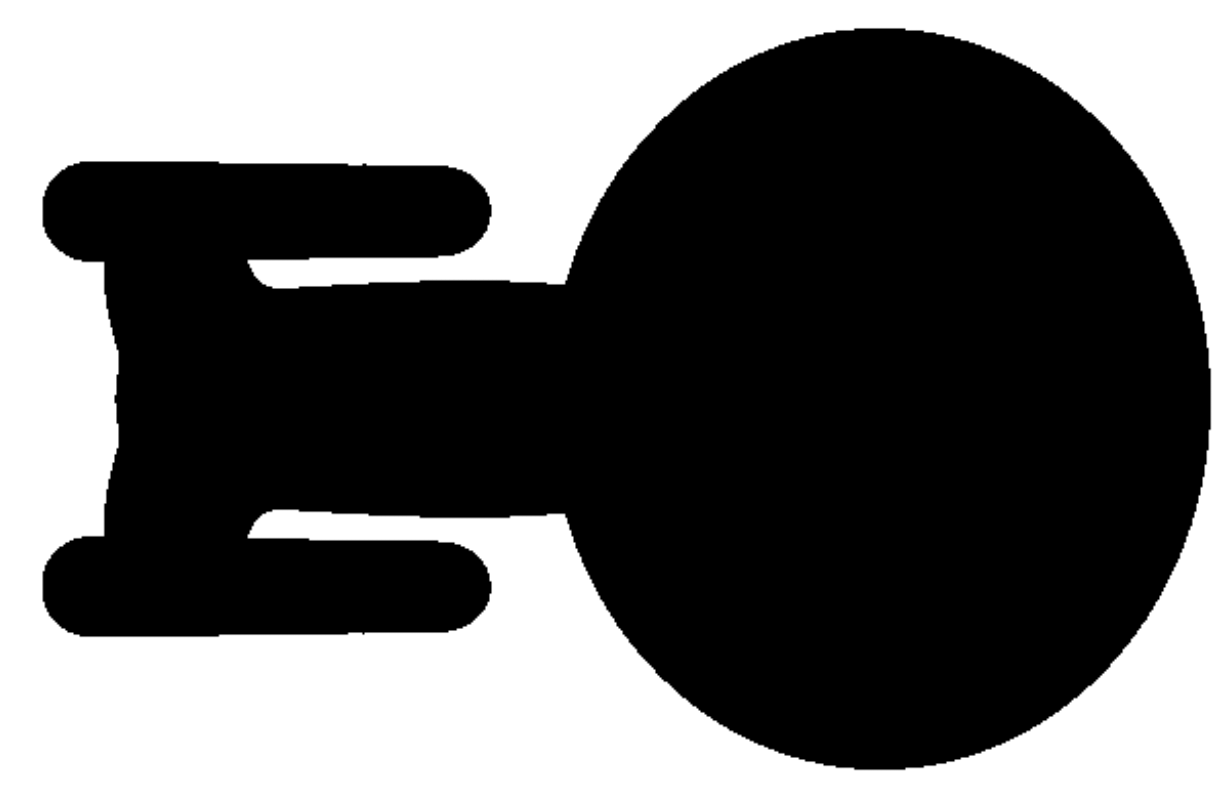
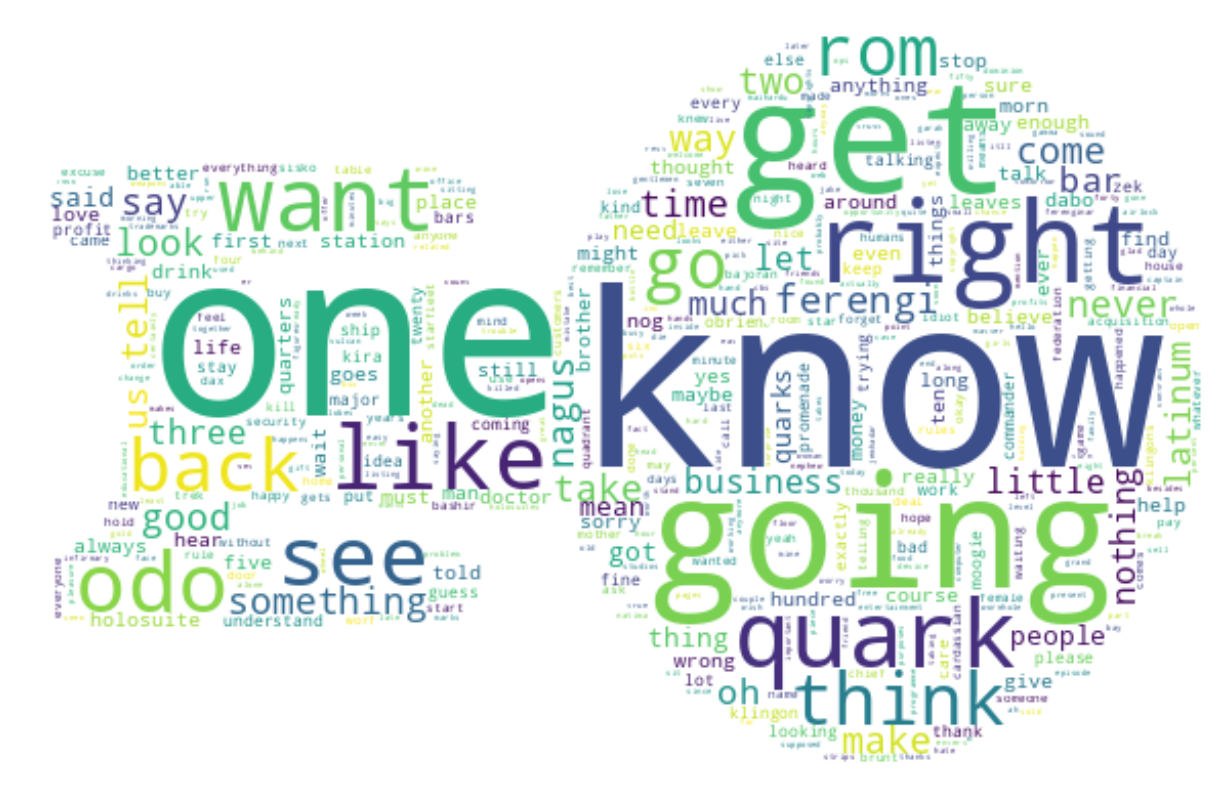
working mask, tested on Quark and Rom

diff --git a/processWords.py b/processWords.py
@@ -35,7 +35,7 @@ def get_all_stopwords(character_names=True):
 stopwords_mine = get_all_stopwords()
 
 def add_nltk_stopwords_to_set(stopwords_mine):
-    try: ##<LUCIFER Added try/except because first-time run gave me a need to execute nltk.download('stopwords')
+  try: ##<LUCIFER Added try/except because first-time run gave me a need to execute nltk.download('stopwords')
     stopwords_nltk = set(stopwords.words('english'))
   except Exception:
     import nltk
@@ -106,8 +106,8 @@ def makeImage(w_dict, fname):
     plt.imshow(wc, interpolation='bilinear')
     plt.axis("off")
 
-    plt.imshow(trek_mask, cmap=plt.cm.gray, interpolation='bilinear')
-    plt.axis("off")
+    #plt.imshow(trek_mask, cmap=plt.cm.gray, interpolation='bilinear')
+    #plt.axis("off")
     plt.show()
 
 ##    plt.imshow(wc, interpolation="bilinear")
